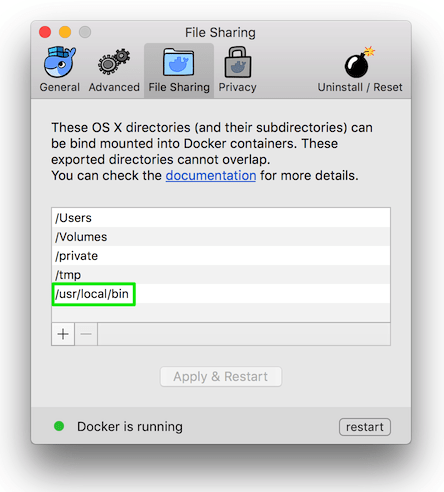
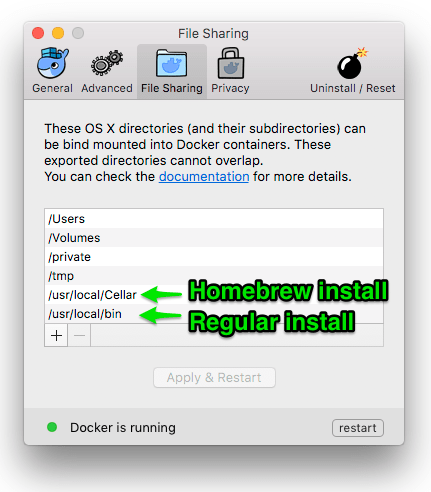
Update Docker for Mac File Sharing instructions

Changed region(s): [[0.0302, 0.0305, 0.9652, 0.9146], [0.3619, 0.7622, 0.6334, 0.7927]]

diff --git a/README.md b/README.md
@@ -50,10 +50,13 @@ It will ask for your sudo password only if necessary.
 ### Docker for Mac
 
 If you are using [Docker for Mac](https://docs.docker.com/docker-for-mac/),
-you need to add `/usr/local/bin` to the list of mountable directories. This
-allows Dock to mount itself within the container so you can recursively execute
-scripts with Dock shebang lines without creating nested Dock containers. You
-can add the path via **Preferences** -> **File Sharing**:
+you need to add `/usr/local/Cellar` (if you installed Dock using Homebrew) or
+`/usr/local/bin` (if you installed using the Bash script) to the list of mountable
+directories.
+
+This allows Dock to mount itself within the container so you can recursively
+execute Dock within Dock containers. You can add the path via
+**Preferences** -> **File Sharing**:
 
 <p align="center">
   <img src="https://raw.githubusercontent.com/brigade/dock/master/doc/img/docker-for-mac-file-sharing.png" width="50%" alt="Docker for Mac File Sharing" />
